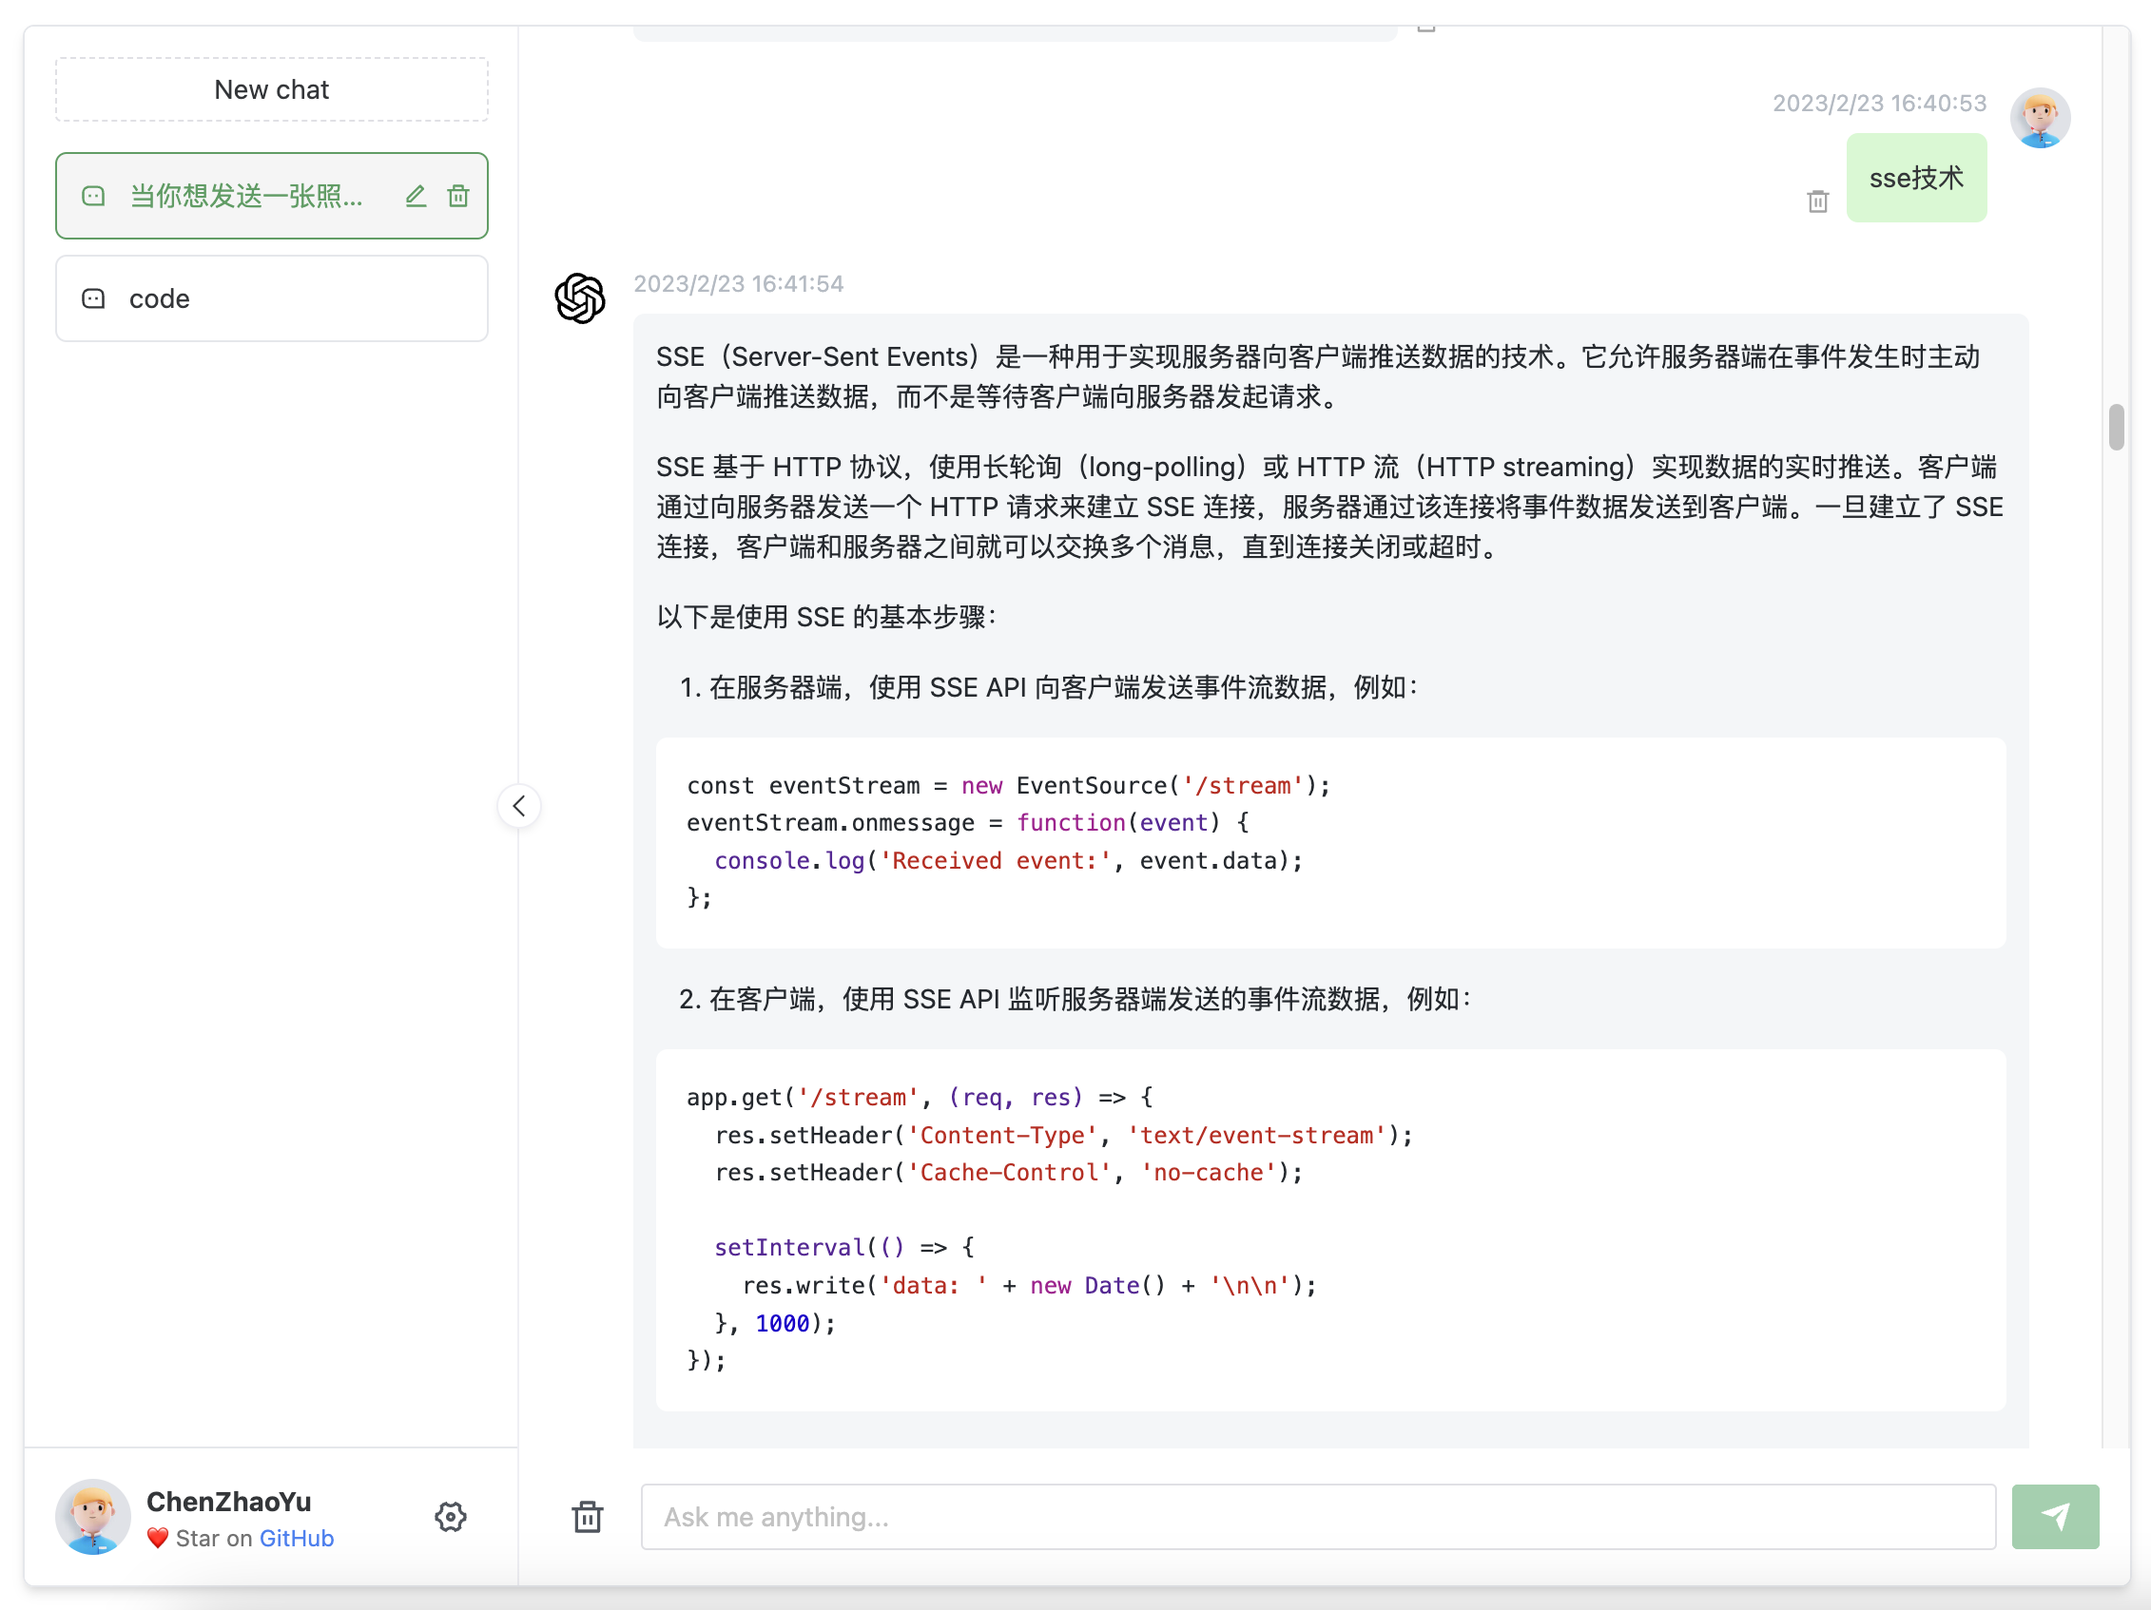
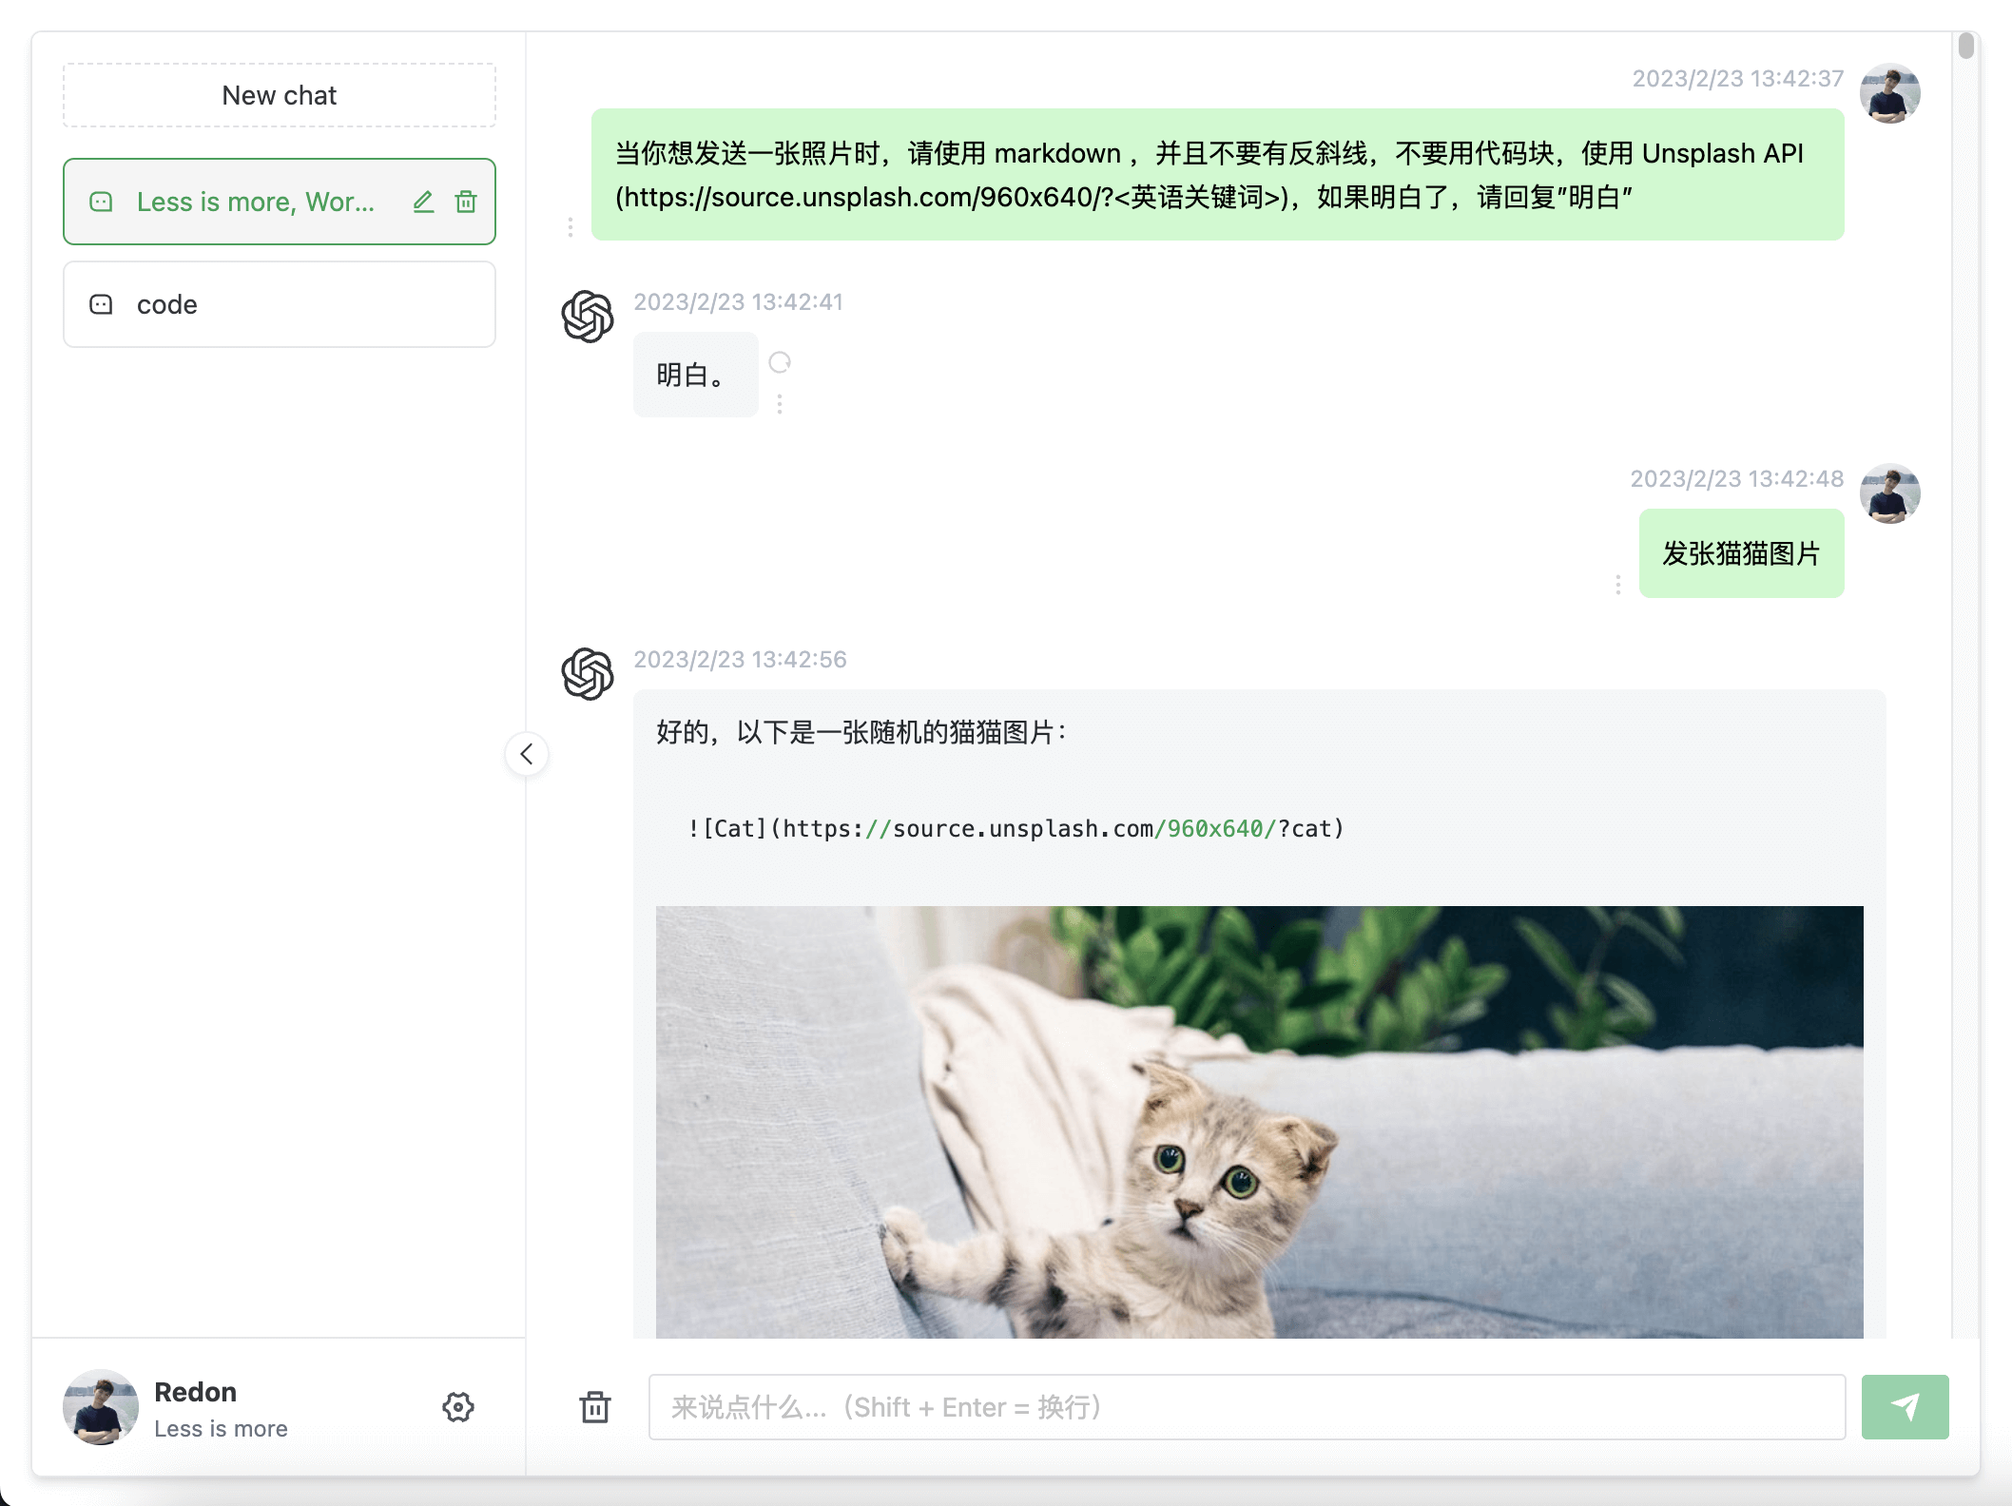
chore: version 2.9.2 (#261)
* feat: 添加  OPENAI_API_BASE_URL 可选参数[#249]

* fix: 生成的代码块不能复制的问题[#251][#260]

* perf: 限制高分屏上的宽度[#257]

* perf: 文字按单词换行[#215][#225]

* perf: highlight.js 新语法警告

* fix: 移动端输入框不会被键盘弹起[#256]

* chore: 更新文档

* chore: version 2.9.2

diff --git a/src/views/chat/index.vue b/src/views/chat/index.vue
@@ -326,15 +326,14 @@ const buttonDisabled = computed(() => {
 
 const wrapClass = computed(() => {
   if (isMobile.value)
-    return ['pt-14', 'pb-16']
-
+    return ['pt-14']
   return []
 })
 
 const footerClass = computed(() => {
   let classes = ['p-4']
   if (isMobile.value)
-    classes = ['p-2', 'pr-4', 'fixed', 'bottom-4', 'left-0', 'right-0', 'z-30', 'h-14', 'overflow-hidden']
+    classes = ['sticky', 'left-0', 'bottom-0', 'right-0', 'p-2', 'pr-4', 'h-14', 'overflow-hidden']
   return classes
 })
 
@@ -349,7 +348,7 @@ onUnmounted(() => {
 </script>
 
 <template>
-  <div class="flex flex-col h-full" :class="wrapClass">
+  <div class="flex flex-col w-full h-full" :class="wrapClass">
     <main class="flex-1 overflow-hidden">
       <div
         id="scrollRef"
@@ -357,58 +356,62 @@ onUnmounted(() => {
         class="h-full overflow-hidden overflow-y-auto"
         :class="[isMobile ? 'p-2' : 'p-4']"
       >
-        <template v-if="!dataSources.length">
-          <div class="flex items-center justify-center mt-4 text-center text-neutral-300">
-            <SvgIcon icon="ri:bubble-chart-fill" class="mr-2 text-3xl" />
-            <span>Aha~</span>
-          </div>
-        </template>
-        <template v-else>
-          <div>
-            <Message
-              v-for="(item, index) of dataSources"
-              :key="index"
-              :date-time="item.dateTime"
-              :text="item.text"
-              :inversion="item.inversion"
-              :error="item.error"
-              :loading="item.loading"
-              @regenerate="onRegenerate(index)"
-              @delete="handleDelete(index)"
-            />
-            <div class="sticky bottom-0 left-0 flex justify-center">
-              <NButton v-if="loading" type="warning" @click="handleStop">
-                <template #icon>
-                  <SvgIcon icon="ri:stop-circle-line" />
-                </template>
-                Stop Responding
-              </NButton>
+        <div class="w-full max-w-screen-xl m-auto">
+          <template v-if="!dataSources.length">
+            <div class="flex items-center justify-center mt-4 text-center text-neutral-300">
+              <SvgIcon icon="ri:bubble-chart-fill" class="mr-2 text-3xl" />
+              <span>Aha~</span>
             </div>
-          </div>
-        </template>
+          </template>
+          <template v-else>
+            <div>
+              <Message
+                v-for="(item, index) of dataSources"
+                :key="index"
+                :date-time="item.dateTime"
+                :text="item.text"
+                :inversion="item.inversion"
+                :error="item.error"
+                :loading="item.loading"
+                @regenerate="onRegenerate(index)"
+                @delete="handleDelete(index)"
+              />
+              <div class="sticky bottom-0 left-0 flex justify-center">
+                <NButton v-if="loading" type="warning" @click="handleStop">
+                  <template #icon>
+                    <SvgIcon icon="ri:stop-circle-line" />
+                  </template>
+                  Stop Responding
+                </NButton>
+              </div>
+            </div>
+          </template>
+        </div>
       </div>
     </main>
     <footer :class="footerClass">
-      <div class="flex items-center justify-between space-x-2">
-        <HoverButton @click="handleClear">
-          <span class="text-xl text-[#4f555e] dark:text-white">
-            <SvgIcon icon="ri:delete-bin-line" />
-          </span>
-        </HoverButton>
-        <NInput
-          v-model:value="prompt"
-          type="textarea"
-          :autosize="{ minRows: 1, maxRows: 2 }"
-          :placeholder="placeholder"
-          @keypress="handleEnter"
-        />
-        <NButton type="primary" :disabled="buttonDisabled" @click="handleSubmit">
-          <template #icon>
-            <span class="dark:text-black">
-              <SvgIcon icon="ri:send-plane-fill" />
+      <div class="w-full max-w-screen-xl m-auto">
+        <div class="flex items-center justify-between space-x-2">
+          <HoverButton @click="handleClear">
+            <span class="text-xl text-[#4f555e] dark:text-white">
+              <SvgIcon icon="ri:delete-bin-line" />
             </span>
-          </template>
-        </NButton>
+          </HoverButton>
+          <NInput
+            v-model:value="prompt"
+            type="textarea"
+            :autosize="{ minRows: 1, maxRows: 2 }"
+            :placeholder="placeholder"
+            @keypress="handleEnter"
+          />
+          <NButton type="primary" :disabled="buttonDisabled" @click="handleSubmit">
+            <template #icon>
+              <span class="dark:text-black">
+                <SvgIcon icon="ri:send-plane-fill" />
+              </span>
+            </template>
+          </NButton>
+        </div>
       </div>
     </footer>
   </div>

diff --git a/service/src/chatgpt/index.ts b/service/src/chatgpt/index.ts
@@ -1,11 +1,11 @@
 import * as dotenv from 'dotenv'
 import 'isomorphic-fetch'
-import type { ChatMessage, SendMessageOptions } from 'chatgpt'
+import type { ChatGPTAPIOptions, ChatMessage, SendMessageOptions } from 'chatgpt'
 import { ChatGPTAPI, ChatGPTUnofficialProxyAPI } from 'chatgpt'
 import { SocksProxyAgent } from 'socks-proxy-agent'
 import fetch from 'node-fetch'
 import { sendResponse } from '../utils'
-import type { ApiModel, ChatContext, ChatGPTAPIOptions, ChatGPTUnofficialProxyAPIOptions, ModelConfig } from '../types'
+import type { ApiModel, ChatContext, ChatGPTUnofficialProxyAPIOptions, ModelConfig } from '../types'
 
 dotenv.config()
 
@@ -18,7 +18,6 @@ if (!process.env.OPENAI_API_KEY && !process.env.OPENAI_ACCESS_TOKEN)
 
 let api: ChatGPTAPI | ChatGPTUnofficialProxyAPI
 
-// To use ESM in CommonJS, you can use a dynamic import
 (async () => {
   // More Info: https://github.com/transitive-bullshit/chatgpt-api
 
@@ -27,17 +26,21 @@ let api: ChatGPTAPI | ChatGPTUnofficialProxyAPI
       apiKey: process.env.OPENAI_API_KEY,
       debug: false,
     }
-    let fetchFn
+
+    if (process.env.OPENAI_API_BASE_URL && process.env.OPENAI_API_BASE_URL.trim().length > 0)
+      options.apiBaseUrl = process.env.OPENAI_API_BASE_URL
+
     if (process.env.SOCKS_PROXY_HOST && process.env.SOCKS_PROXY_PORT) {
       const agent = new SocksProxyAgent({
         hostname: process.env.SOCKS_PROXY_HOST,
         port: process.env.SOCKS_PROXY_PORT,
       })
-      fetchFn = (url, options) => {
+      options.fetch = (url, options) => {
         return fetch(url, { agent, ...options })
       }
     }
-    api = new ChatGPTAPI({ ...options, fetch: fetchFn })
+
+    api = new ChatGPTAPI({ ...options })
     apiModel = 'ChatGPTAPI'
   }
   else {
@@ -59,10 +62,7 @@ let api: ChatGPTAPI | ChatGPTUnofficialProxyAPI
     if (process.env.API_REVERSE_PROXY)
       options.apiReverseProxyUrl = process.env.API_REVERSE_PROXY
 
-    api = new ChatGPTUnofficialProxyAPI({
-      accessToken: process.env.OPENAI_ACCESS_TOKEN,
-      ...options,
-    })
+    api = new ChatGPTUnofficialProxyAPI({ ...options })
     apiModel = 'ChatGPTUnofficialProxyAPI'
   }
 })()

diff --git a/src/views/chat/components/Message/Text.vue b/src/views/chat/components/Message/Text.vue
@@ -30,7 +30,7 @@ renderer.code = (code, language) => {
   const validLang = !!(language && hljs.getLanguage(language))
   if (validLang) {
     const lang = language ?? ''
-    return `<pre class="code-block-wrapper"><div class="code-block-header"><span class="code-block-header__lang">${lang}</span><span class="code-block-header__copy">${t('chat.copyCode')}</span></div><code class="hljs code-block-body ${language}">${hljs.highlight(lang, code).value}</code></pre>`
+    return `<pre class="code-block-wrapper"><div class="code-block-header"><span class="code-block-header__lang">${lang}</span><span class="code-block-header__copy">${t('chat.copyCode')}</span></div><code class="hljs code-block-body ${language}">${hljs.highlight(code, { language: lang }).value}</code></pre>`
   }
   return `<pre style="background: none">${hljs.highlightAuto(code).value}</pre>`
 }
@@ -118,7 +118,7 @@ defineExpose({ textRef })
       <span class="dark:text-white w-[4px] h-[20px] block animate-blink" />
     </template>
     <template v-else>
-      <div ref="textRef" class="leading-relaxed break-all">
+      <div ref="textRef" class="leading-relaxed break-words">
         <div v-if="!inversion" class="markdown-body" v-html="text" />
         <div v-else class="whitespace-pre-wrap" v-text="text" />
       </div>

diff --git a/service/src/types.ts b/service/src/types.ts
@@ -1,14 +1,8 @@
-import type { FetchFn, openai } from 'chatgpt'
+import type { FetchFn } from 'chatgpt'
 
 export interface ChatContext {
   conversationId?: string
   parentMessageId?: string
-}
-
-export interface ChatGPTAPIOptions {
-  apiKey: string
-  debug?: boolean
-  completionParams?: Partial<openai.CompletionParams>
 }
 
 export interface ChatGPTUnofficialProxyAPIOptions {

diff --git a/src/views/chat/hooks/useCopyCode.ts b/src/views/chat/hooks/useCopyCode.ts
@@ -1,4 +1,4 @@
-import { onMounted } from 'vue'
+import { onMounted, onUpdated } from 'vue'
 
 export function useCopyCode() {
   function copyCodeBlock() {
@@ -15,4 +15,6 @@ export function useCopyCode() {
   }
 
   onMounted(() => copyCodeBlock())
+
+  onUpdated(() => copyCodeBlock())
 }

diff --git a/README.md b/README.md
@@ -2,8 +2,8 @@
 
 > 声明：此项目只发布于 Github，基于 MIT 协议，免费且作为开源学习使用。并且不会有任何形式的卖号、付费服务、讨论群、讨论组等行为。谨防受骗。
 
-![cover](./docs/c1-2.8.0.png)
-![cover2](./docs/c2-2.8.0.png)
+![cover](./docs/c1.png)
+![cover2](./docs/c2.png)
 
 - [ChatGPT Web](#chatgpt-web)
 	- [介绍](#介绍)
@@ -38,11 +38,11 @@
 
 | 方式                                          | 免费？ | 可靠性     | 质量 |
 | --------------------------------------------- | ------ | ---------- | ---- |
-| `ChatGPTAPI(GPT-3)`                           | 否     | 可靠       | 较笨 |
+| `ChatGPTAPI(gpt-3.5-turbo-0301)`                           | 否     | 可靠       | 相对较笨 |
 | `ChatGPTUnofficialProxyAPI(网页 accessToken)` | 是     | 相对不可靠 | 聪明 |
 
 对比：
-1. `ChatGPTAPI` 使用 `text-davinci-003` 通过官方`OpenAI`补全`API`模拟`ChatGPT`（最稳健的方法，但它不是免费的，并且没有使用针对聊天进行微调的模型）
+1. `ChatGPTAPI` 使用 `gpt-3.5-turbo-0301` 通过官方`OpenAI`补全`API`模拟`ChatGPT`（最稳健的方法，但它不是免费的，并且没有使用针对聊天进行微调的模型）
 2. `ChatGPTUnofficialProxyAPI` 使用非官方代理服务器访问 `ChatGPT` 的后端`API`，绕过`Cloudflare`（使用真实的的`ChatGPT`，非常轻量级，但依赖于第三方服务器，并且有速率限制）
 
 [查看详情](https://github.com/Chanzhaoyu/chatgpt-web/issues/138)
@@ -55,11 +55,19 @@
 
 反向代理：
 
-`ChatGPTUnofficialProxyAPI`时可用 [详情](https://github.com/transitive-bullshit/chatgpt-api#reverse-proxy)
+`ChatGPTUnofficialProxyAPI`时可用
 
 ```shell
 # service/.env
 API_REVERSE_PROXY=
+```
+
+环境变量：
+
+全部参数变量请查看或[这里](#docker-参数示例)
+
+```
+/service/.env
 ```
 
 ## 待实现路线
@@ -145,6 +153,7 @@ pnpm dev
 
 - `OPENAI_API_KEY` 二选一
 - `OPENAI_ACCESS_TOKEN`  二选一，同时存在时，`OPENAI_API_KEY` 优先
+- `OPENAI_API_BASE_URL`  可选，设置 `OPENAI_API_KEY` 时可用
 - `API_REVERSE_PROXY` 可选，设置 `OPENAI_ACCESS_TOKEN` 时可用 [参考](#介绍)
 - `TIMEOUT_MS` 超时，单位毫秒，可选
 - `SOCKS_PROXY_HOST` 可选，和 SOCKS_PROXY_PORT 一起时生效
@@ -184,6 +193,8 @@ services:
       OPENAI_API_KEY: xxxxxx
       # 二选一
       OPENAI_ACCESS_TOKEN: xxxxxx
+      # API接口地址，可选，设置 OPENAI_API_KEY 时可用
+      OPENAI_API_BASE_URL: xxxx
       # 反向代理，可选
       API_REVERSE_PROXY: xxx
       # 超时，单位毫秒，可选
@@ -193,7 +204,7 @@ services:
       # Socks代理端口，可选，和 SOCKS_PROXY_HOST 一起时生效
       SOCKS_PROXY_PORT: xxxx
 ```
-
+- `OPENAI_API_BASE_URL`  可选，设置 `OPENAI_API_KEY` 时可用
 ###  使用 Railway 部署
 
 [![Deploy on Railway](https://railway.app/button.svg)](https://railway.app/new/template/yytmgc)
@@ -206,6 +217,7 @@ services:
 | `TIMEOUT_MS`          | 可选                   | 超时时间，单位毫秒，                                                                               |
 | `OPENAI_API_KEY`      | `OpenAI API` 二选一    | 使用 `OpenAI API` 所需的 `apiKey` [(获取 apiKey)](https://platform.openai.com/overview)            |
 | `OPENAI_ACCESS_TOKEN` | `Web API` 二选一       | 使用 `Web API` 所需的 `accessToken` [(获取 accessToken)](https://chat.openai.com/api/auth/session) |
+| `OPENAI_API_BASE_URL`   | 可选，`OpenAI API` 时可用 |  `API`接口地址  |
 | `API_REVERSE_PROXY`   | 可选，`Web API` 时可用 | `Web API` 反向代理地址 [详情](https://github.com/transitive-bullshit/chatgpt-api#reverse-proxy)    |
 | `SOCKS_PROXY_HOST`   | 可选，和 `SOCKS_PROXY_PORT` 一起时生效 | Socks代理    |
 | `SOCKS_PROXY_PORT`   | 可选，和 `SOCKS_PROXY_HOST` 一起时生效 | Socks代理端口    |

diff --git a/CHANGELOG.md b/CHANGELOG.md
@@ -1,3 +1,24 @@
+## v2.9.2
+
+`2023-03-04`
+
+手动部署的同学，务必删除根目录和`service`中的`node_modules`重新安装依赖，降低出现问题的概率，自动部署的不需要做改动。
+
+### Feature
+- 感谢 [hyln9](https://github.com/Chanzhaoyu/chatgpt-web/pull/247) 添加对渲染 `LaTex` 数学公式的支持
+- 感谢 [ottocsb](https://github.com/Chanzhaoyu/chatgpt-web/pull/227) 添加支持 `webAPP` (苹果添加到主页书签访问)支持
+- 添加 `OPENAI_API_BASE_URL` 可选环境变量[#249]
+## Enhancement
+- 优化在高分屏上主题内容的最大宽度[#257]
+- 现在文字按单词截断[#215][#225]
+### BugFix
+- 修复动态生成时代码块不能被复制的问题[#251][#260]
+- 修复 `iOS` 移动端输入框不会被键盘顶起的问题[#256]
+- 修复控制台渲染警告
+## Other
+- 更新依赖至最新
+- 修改 `README` 内容
+
 ## v2.9.1
 
 `2023-03-02`
